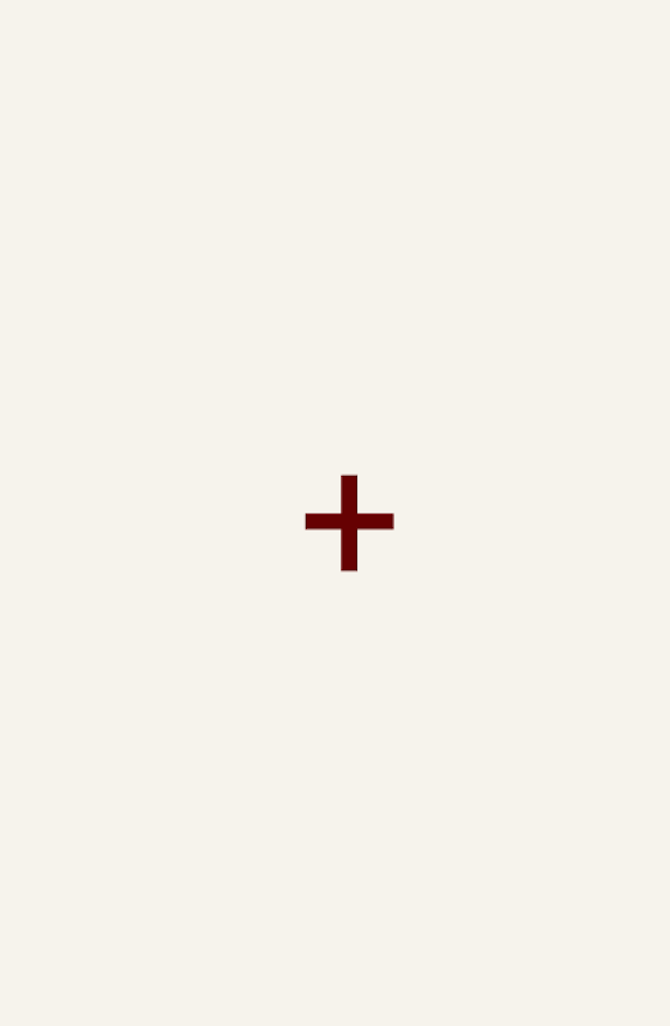
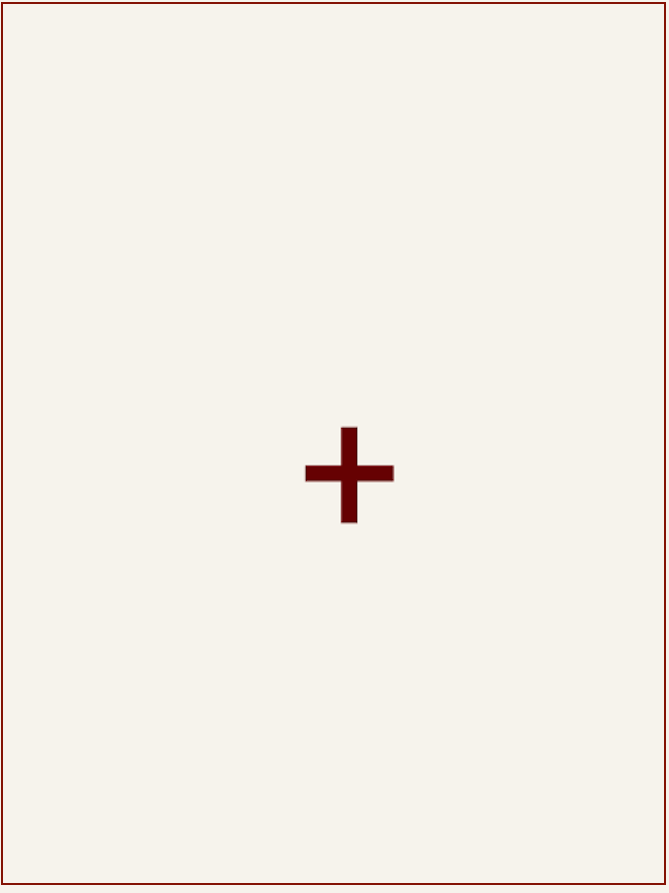
home背景色変更

diff --git a/pages/home.js b/pages/home.js
@@ -32,7 +32,8 @@ const useStyles = makeStyles((theme) => ({
   },
   homeContainer: {
     height:'90vh',
-    backgroundColor: theme.palette.secondary.light,
+    // backgroundColor: theme.palette.secondary.light,
+    backgroundColor: "#F6F3EC",
     // color:theme.palette.secondary.contrastText
   },
   link: {
@@ -112,7 +113,7 @@ export default function Home() {
         <ImageList className={classes.imageList} cols={2.5}>
           {itemList != null &&
             itemList.map((item) => (
-              <ImageListItem key={item.id}>
+              <ImageListItem key={item.id} >
                 {/* TODO:ドキュメントIDの表示、登録日付表示 */}
                 <Link
                   href={{
@@ -121,7 +122,7 @@ export default function Home() {
                   }}
                   passHref
                 >
-                  <Image src={item.src} alt="#" height="200px" width="150px" />
+                  <Image src={item.src} alt="#" height="200px" width="150px"/>
                 </Link>
                 {item.id > 0 && (
                   <ImageListItemBar
